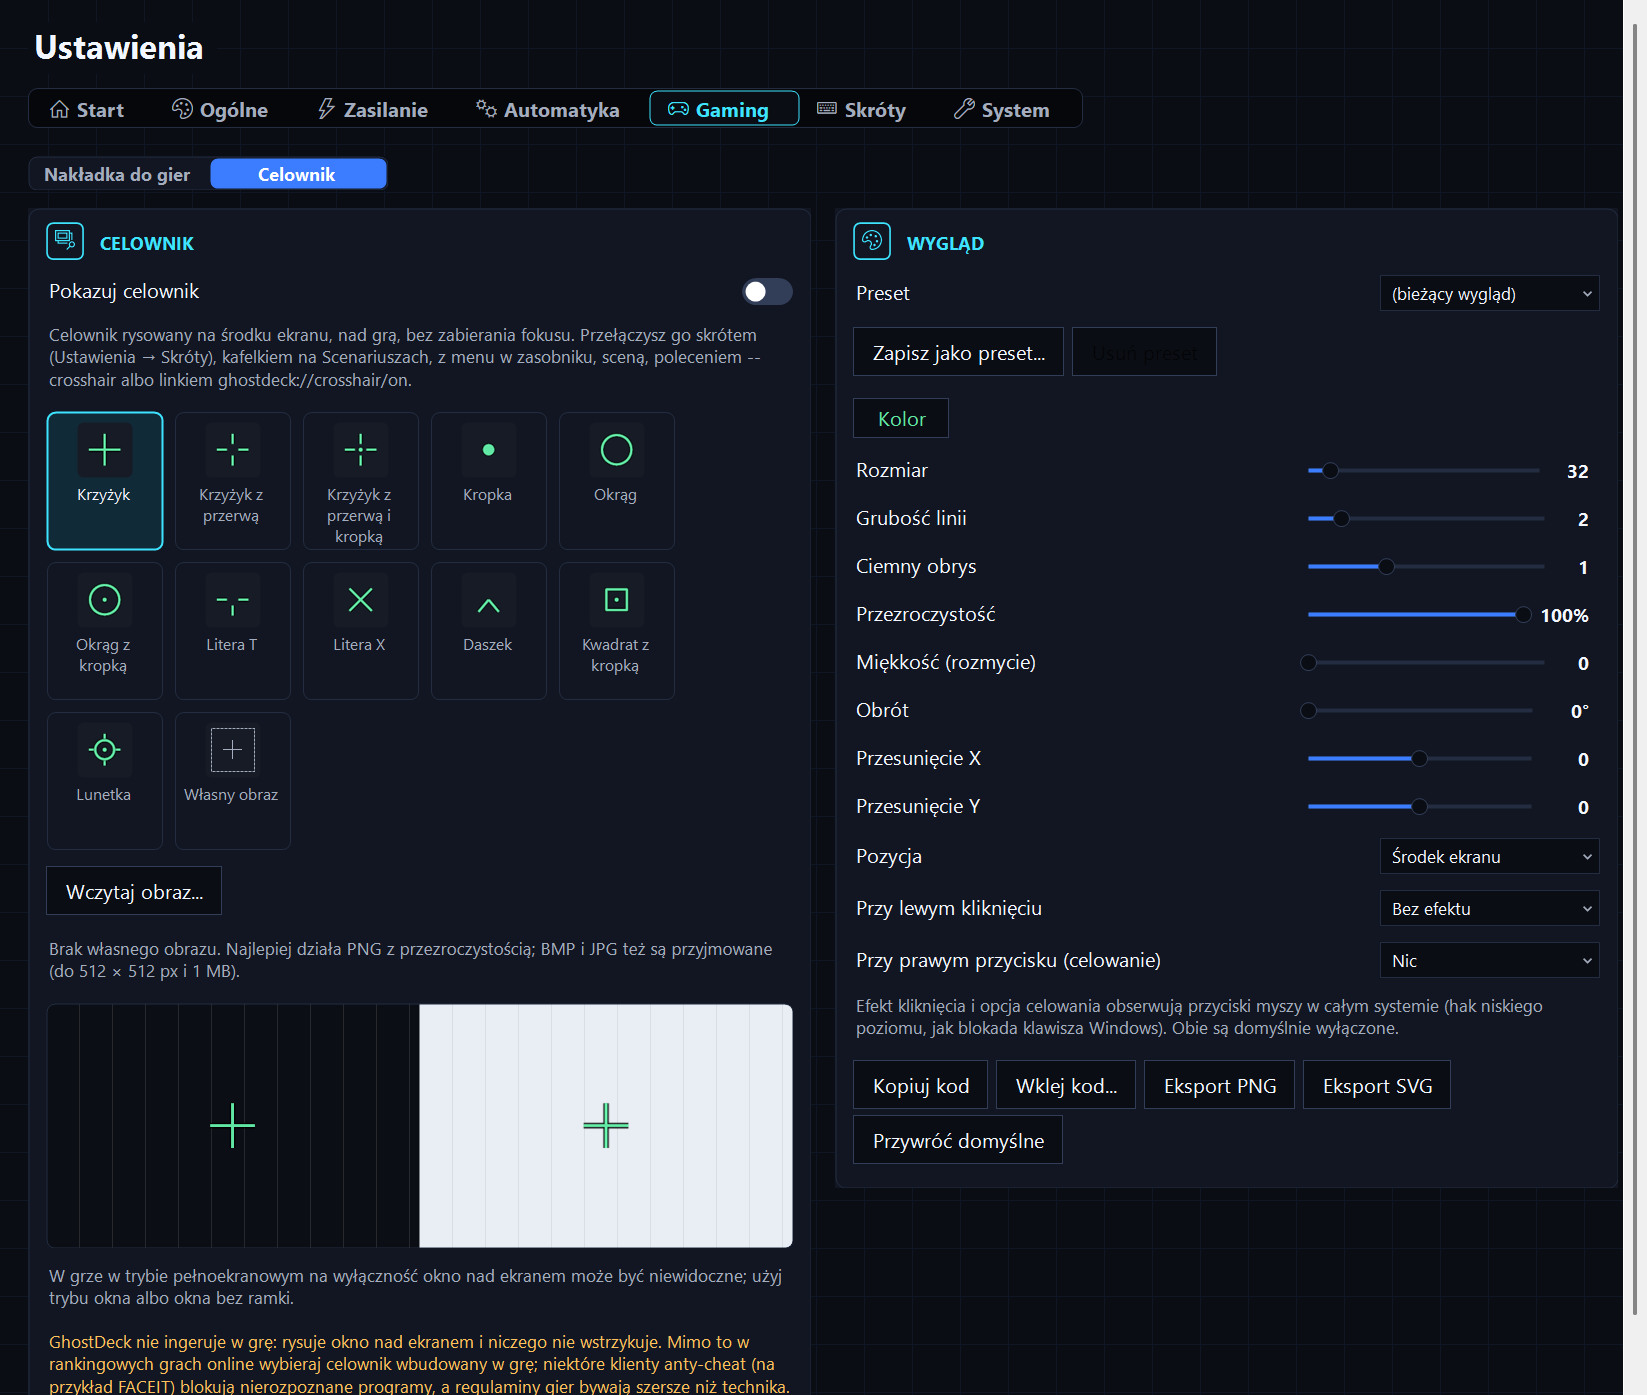
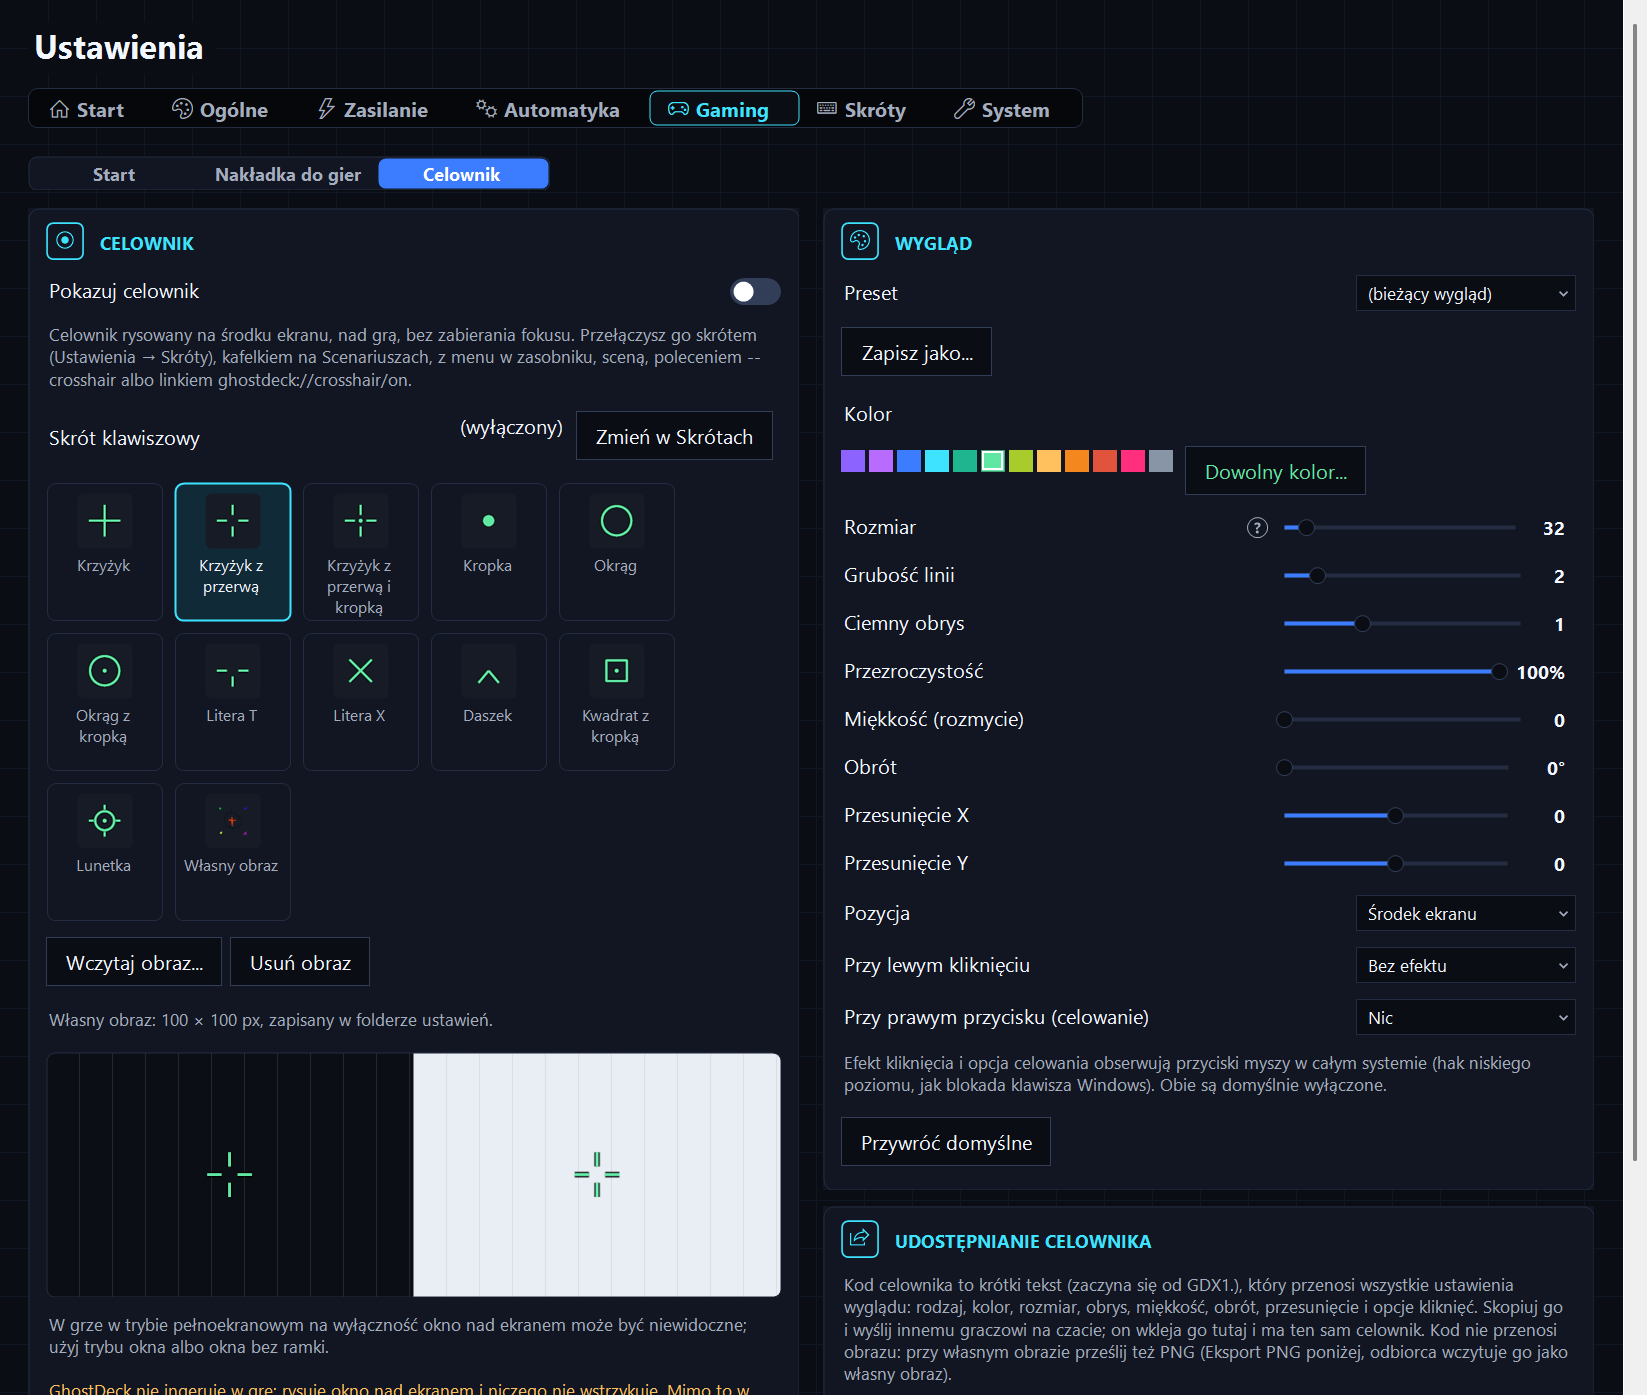
Docs: crosshair round 2 (CHANGELOG Added/Fixed, TECHNICAL 79.4-79.6, refreshed images) (#247)

diff --git a/docs/TECHNICAL.md b/docs/TECHNICAL.md
@@ -3445,7 +3445,12 @@ is held.
 
 Presets are `CrosshairStyle` copies with a `Name` in `AppSettings.CrosshairPresets`, with no
 limit; `EnsureDefaults` drops nameless or duplicate ones and clamps their fields, and a scene
-whose preset was deleted falls back to "on with the current look". The share code is
+whose preset was deleted falls back to "on with the current look". The preset the live look
+came from is remembered by name (`CrosshairActivePreset`), so an edit does not detach it: the
+list keeps its name with a "(modified)" mark, *Save* writes the look back into it, *Save as...*
+adds a preset or overwrites the one whose name is typed (the prompt says so), and *Delete* is
+two-step (the first click arms the button for three seconds). Loading a preset from the CLI or
+a scene sets the active name; a pasted share code clears it. The share code is
 `"GDX1." + base64url` of 20 bytes: kind, RGB, size (2), thickness, rim, opacity, offset X and
 Y (2 each, biased by 32768), rotation (2), softness, click effect, aim-hide, flags, and a
 checksum byte - 32 characters, pasteable in a chat; a later layout gets a new prefix and this
@@ -3460,14 +3465,34 @@ the limits (512 × 512 px, 1 MB) and re-encodes BMP / JPG as PNG, the next impor
 The settings export carries it as base64 in `CrosshairImageBase64`, a property written only
 when not null, so `settings.json` never holds the picture; the import writes it back.
 
-### 79.5 Where it lives
+### 79.5 Three fixes the owner's test turned up
+
+*Card widths after the scrollbar.* On entering a Settings view tall enough for a vertical
+scrollbar, the two card columns were laid out for the client width without the scrollbar and
+stayed so until the next card rebuild, which then moved them by half the scrollbar's width.
+`ThemedPage.LayoutAndSyncScroll` drops the re-entrant Resize its own pass raises (the v1.34
+rule), and that Resize was the one reporting the new client width; the helper now compares
+the client width before and after the pass and runs the pass once more when it changed.
+
+*Spread on shapes without arms.* The click effect's spread moved arms apart, so a dot, a
+circle, a square or the picture did nothing on a click; those now grow their ring, box or
+picture by up to 30 % and come back, with a centre dot staying put.
+
+*Exact slider values.* The offset sliders put a thousand values on about 190 pixels of
+track, five units a pixel, so zero could not be hit by dragging. `Slider` takes the mouse
+wheel (one step, ten with Ctrl; the event is marked handled so the page does not scroll
+underneath), the arrow, Page and Home / End keys after a click, a double-click back to a
+`DefaultValue`, and an optional `SnapTo` value reached when the drag lands within half a
+percent of the range; the help dot by the first slider says so.
+
+### 79.6 Where it lives
 
 | Piece | Place |
 |---|---|
 | Style, painter, codec, SVG, picture import | `Core/Crosshair.cs` |
 | Mouse hook | `Core/MouseWatch.cs` |
 | Window | `Forms/CrosshairForm.cs` |
-| Settings → Gaming → Crosshair (two cards, tiles, preview) | `UI/SettingsCrosshair.cs` (partial `SettingsPage`), the overlay / crosshair switch in `SettingsPage` |
+| Settings → Gaming: the Start view (a tile per feature), the overlay / crosshair switch, the three crosshair cards (crosshair, look, sharing), tiles, preview | `UI/SettingsCrosshair.cs` (partial `SettingsPage`), the switch and the Gaming layout in `SettingsPage` |
 | Tray: menu entry, hotkey `Crosshair` (`Ctrl+Alt+F12`, shipped disabled), tray-click action, jump list, scene field, `--crosshair`, status JSON | `TrayContext.cs`, `Core/TrayWheel.cs`, `Core/Cli.cs`, `Core/Protocol.cs` |
 | Scenarios tile (`crosshair`, hideable), scene editor row (on / off / on with a preset) | `UI/ScenariosPage.cs`, `Forms/SceneEditForm.cs` |
 | Harness: `crosshair` mode (shape sheets at 100 % and 140 %, effect frames, picture, code and SVG round trip, glyph sheet), `GAMINGSUB=1` and `CROSSHAIR=<code>` for the page mode | private render harness |

diff --git a/CHANGELOG.md b/CHANGELOG.md
@@ -18,9 +18,22 @@ Format loosely based on [Keep a Changelog](https://keepachangelog.com/).
   PNG and SVG export, and a live preview on a dark and a light background. Switch it with a
   hotkey (`Ctrl+Alt+F12`, shipped disabled), the tile on Scenarios, the tray menu, a tray-click
   action, the taskbar jump list, a scene field (off / on / on with a preset), `--crosshair
-  on|off|preset|code` and `ghostdeck://crosshair/...`. Settings → Gaming now has two views,
-  *Gaming overlay* and *Crosshair*, behind one switch. The settings backup carries the
-  presets and the custom picture.
+  on|off|preset|code` and `ghostdeck://crosshair/...`. Settings → Gaming now opens on a
+  *Start* view with a tile per feature (its state and a quick switch, like the Settings Start
+  page) and has the *Gaming overlay* and *Crosshair* views behind the same switch. A preset
+  stays selected while you edit it, marked "(modified)", with *Save* writing the look back
+  and *Save as...* adding or overwriting a preset. The settings backup carries the presets
+  and the custom picture.
+- **Sliders take the mouse wheel, the arrow keys and a double-click** - one step per wheel
+  notch or arrow (ten with Ctrl), a double-click puts the slider back to its default, and a
+  slider with a natural zero (the crosshair offsets and rotation) snaps to it when dragged
+  close. The value column is as wide as the longest value, so "100%" is no longer clipped.
+
+### Fixed
+- **Settings cards laid out for the width before the scrollbar** - when a Settings view grew
+  tall enough for a vertical scrollbar on entry, the two card columns kept the width they
+  had without it until the next rebuild, which then shifted them by half the scrollbar.
+  The layout pass now runs again at the settled width.
 - **MSI Vector GP66 12UGS (`1544EMS1`): fan curve verified, fan RPM on** ([#249](../../issues/249),
   [#250](../../issues/250), thanks @TheOriginalBabu) - his test curve sits byte-for-byte at the
   shipped addresses on both fans, and both tachometers are live. Recipes confirmed in all four
